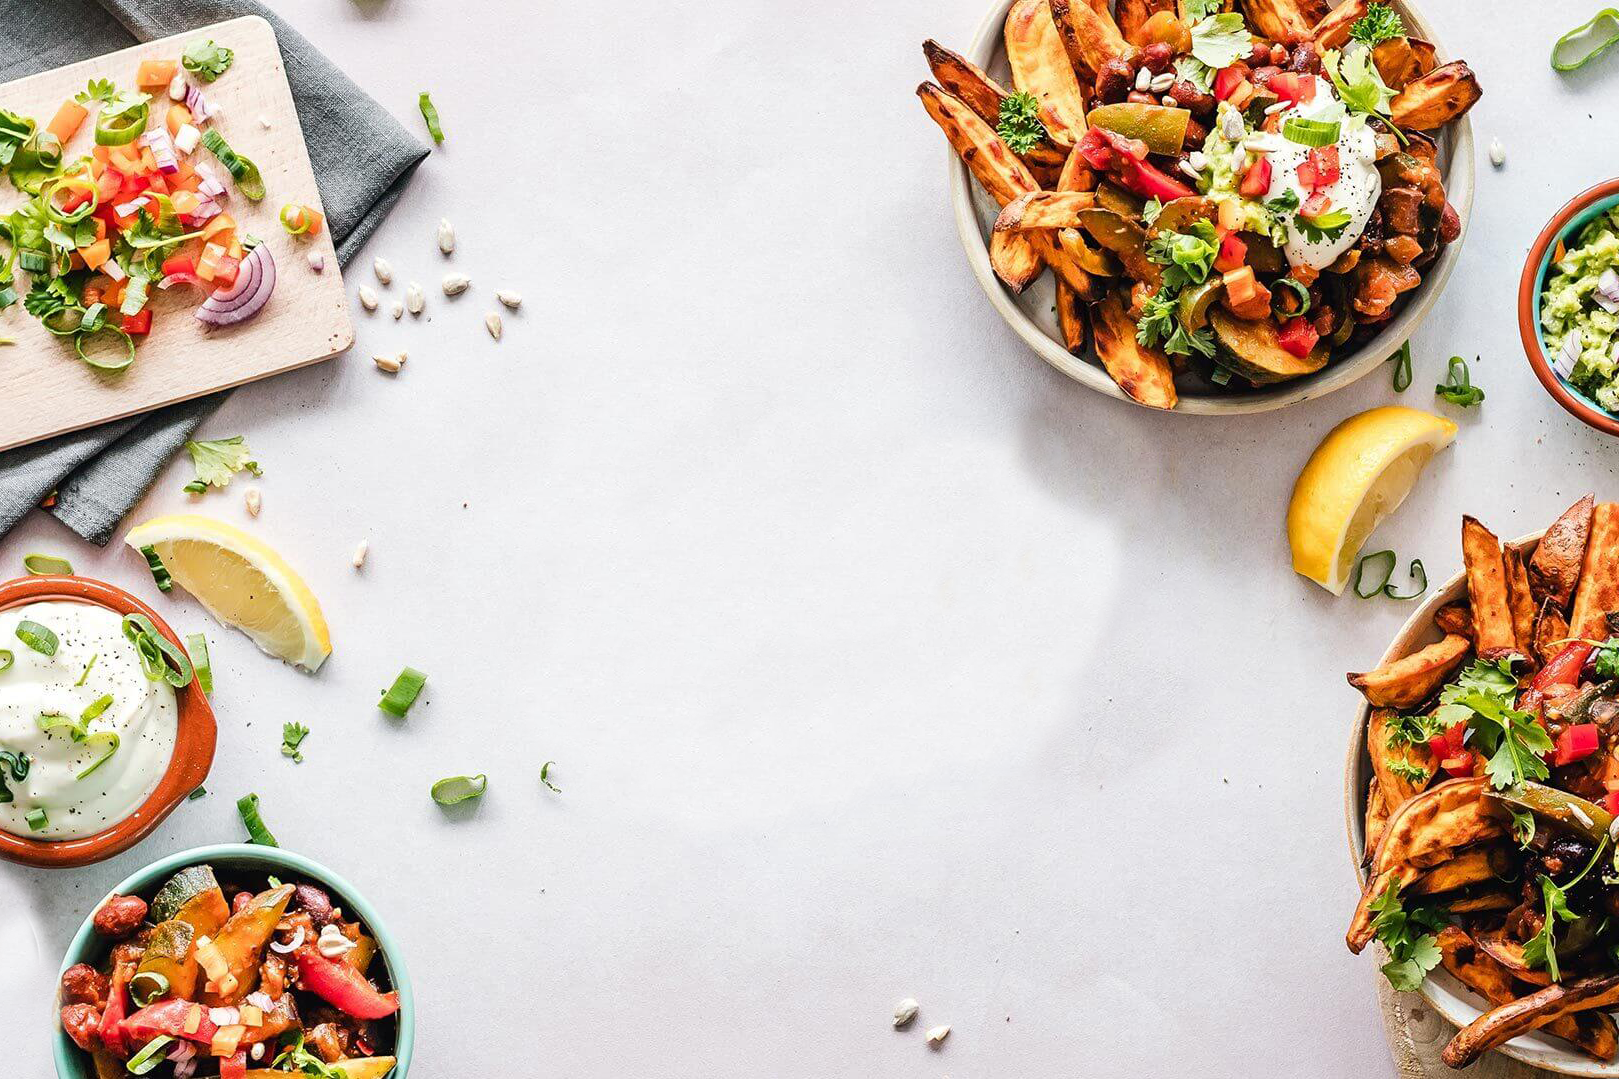
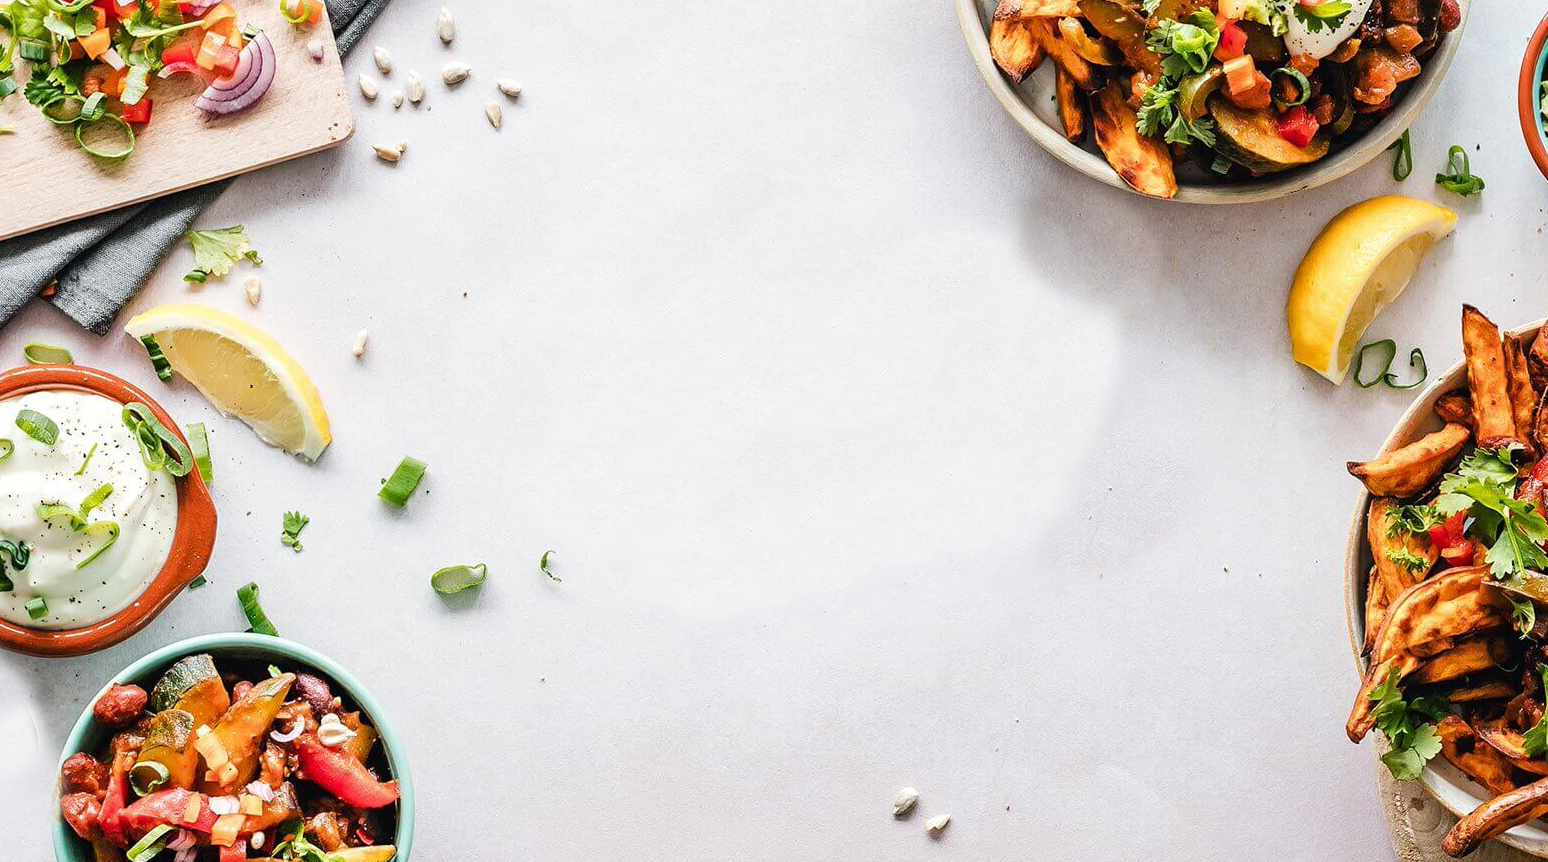
homepage done

diff --git a/client/src/pages/HomePage.js b/client/src/pages/HomePage.js
@@ -1,58 +1,19 @@
 import React from 'react';
-import {
-  Table,
-  Pagination,
-  Select
-} from 'antd'
 
+import logo from '../images/logo.png';
 import MenuBar from '../components/MenuBar';
-import Button from 'react-bootstrap/Button';
+import food_background from '../images/food_background.png';
 import { getAllMatches, getAllPlayers, getAllChopped } from '../fetcher'
-const { Column, ColumnGroup } = Table;
-const { Option } = Select;
 
-
-const playerColumns = [
-  {
-    title: 'Name',
-    dataIndex: 'Name',
-    key: 'Name',
-    sorter: (a, b) => a.Name.localeCompare(b.Name),
-    render: (text, row) => <a href={`/players?id=${row.PlayerId}`}>{text}</a>
-  },
-  {
-    title: 'Nationality',
-    dataIndex: 'Nationality',
-    key: 'Nationality',
-    sorter: (a, b) => a.Nationality.localeCompare(b.Nationality)
-  },
-  {
-    title: 'Rating',
-    dataIndex: 'Rating',
-    key: 'Rating',
-    sorter: (a, b) => a.Rating - b.Rating
-  },
-  // TASK 7: add a column for Potential, with the ability to (numerically) sort ,
-  {
-    title: 'Potential',
-    dataIndex: 'Potential',
-    key: 'Potential',
-    sorter: (a, b) => a.Potential - b.Potential
-  },
-  // TASK 8: add a column for Club, with the ability to (alphabetically) sort 
-  {
-    title: 'Club',
-    dataIndex: 'Club',
-    key: 'Club',
-    sorter: (a, b) => a.Club.localeCompare(b.Club)
-  },
-  // TASK 9: add a column for Value - no sorting required
-  {
-    title: 'Value',
-    dataIndex: 'Value',
-    key: 'Value'
-  },
-];
+import {
+  Container,
+  Row,
+  Col,
+  Stack,
+  Button,
+  Image,
+  Card,
+} from 'react-bootstrap';
 
 class HomePage extends React.Component {
 
@@ -66,85 +27,69 @@ class HomePage extends React.Component {
       playersResults: [],
       pagination: null  
     }
-
-    this.leagueOnChange = this.leagueOnChange.bind(this)
-    this.goToMatch = this.goToMatch.bind(this)
-  }
-
-
-  goToMatch(matchId) {
-    window.location = `/matches?id=${matchId}`
-  }
-
-  leagueOnChange(value) {
-    // TASK 2: this value should be used as a parameter to call getAllMatches in fetcher.js with the parameters page and pageSize set to null
-    // then, matchesResults in state should be set to the results returned - see a similar function call in componentDidMount()
-    getAllMatches(null, null, value).then(res => {
-      this.setState({ matchesResults: res.results })
-    })
-    
   }
 
   componentDidMount() {
     getAllChopped().then(res => {
       console.log(res.results)
     })
-    getAllMatches(null, null, 'D1').then(res => {
-      this.setState({ matchesResults: res.results })
-    })
-
-    getAllPlayers().then(res => {
-      console.log(res.results)
-      // TASK 1: set the correct state attribute to res.results
-      this.setState({ playersResults: res.results })
-    })
-
- 
   }
 
-
   render() {
+
+    var textStyle = {
+      position: 'absolute', 
+      top: '50%', 
+      left: '50%'
+    };
 
     return (
       <div>
         <MenuBar />
-        <div style={{ width: '70vw', margin: '0 auto', marginTop: '5vh' }}>
-          <h3>Players</h3>
-          <Table dataSource={this.state.playersResults} columns={playerColumns} pagination={{ pageSizeOptions:[5, 10], defaultPageSize: 5, showQuickJumper:true }}/>
+        <div style={{ 
+          backgroundImage: `url(${food_background})`,
+          backgroundRepeat:"no-repeat",
+          backgroundSize:"cover", 
+          height:900,width:1600 }}>
         </div>
-        <div style={{ width: '70vw', margin: '0 auto', marginTop: '2vh' }}>
-          <h3>Matches</h3>
-          <Select defaultValue="D1" style={{ width: 120 }} onChange={this.leagueOnChange}>
-            <Option value="D1">Bundesliga</Option>
-             {/* TASK 3: Take a look at Dataset Information.md from MS1 and add other options to the selector here  */}
-             <Option value="SP1">SP1</Option>
-          </Select>
-
-          {<Button onClick={() => toggleShow(true)}>Show Toast</Button>}
-          
-          <Table onRow={(record, rowIndex) => {
-    return {
-      onClick: event => {this.goToMatch(record.MatchId)}, // clicking a row takes the user to a detailed view of the match in the /matches page using the MatchId parameter  
-    };
-  }} dataSource={this.state.matchesResults} pagination={{ pageSizeOptions:[5, 10], defaultPageSize: 5, showQuickJumper:true }}>
-            <ColumnGroup title="Teams">
-              {/* TASK 4: correct the title for the 'Home' column and add a similar column for 'Away' team in this ColumnGroup */}
-              <Column title="Home" dataIndex="Home" key="Home" sorter= {(a, b) => a.Home.localeCompare(b.Home)}/>
-              <Column title="Away" dataIndex="Away" key="Away" sorter= {(a, b) => a.Away.localeCompare(b.Away)}/>
-            </ColumnGroup>
-            <ColumnGroup title="Goals">
-              {/* TASK 5: add columns for home and away goals in this ColumnGroup, with the ability to sort values in these columns numerically */}
-              <Column title="Home Goals" dataIndex="HomeGoals" key="HomeGoals"  sorter= {(a, b) => a.HomeGoals - b.HomeGoals}/>
-              <Column title="Away Goals" dataIndex="AwayGoals" key="AwayGoals" sorter= {(a, b) => a.AwayGoals - b.AwayGoals}/>
-            </ColumnGroup>
-             {/* TASK 6: create two columns (independent - not in a column group) for the date and time. Do not add a sorting functionality */}
-             <Column title="Date" dataIndex="Date" key="Date"/>
-              <Column title="Time" dataIndex="Time" key="Time"/>
-          </Table>
-
-        </div>
-
-
+       
+        {/* <h1 style={textStyle}>Text over image</h1> */}
+        <Container style={{ position:'absolute', top: '30%', left: '10%'}}>
+          <div class="d-flex justify-content-center">
+          <img
+                  alt=""
+                  src={logo}
+                  width="100"
+                  height="100"
+              />
+          </div>
+          <h3 class="d-flex justify-content-center">Creative Cuisine </h3>
+          <Card style={{marginTop: '30px'}}>
+            <Card.Text style={{margin: '30px'}}>
+              <p class="text-center">
+                Creative Cuisine is a tool to inspire creativity in your cooking! 
+              </p>
+              <p class="text-left">
+                <ul>
+                Our features include: 
+                  <li style={{marginLeft: '30px'}}>
+                    an extensive database of recipes for you to try new dishes with a customizable search tool to make it easy to find the recipes that are right for you
+                  </li>
+                  <li style={{marginLeft: '30px'}}>
+                    access to the top recipe contributers so that you can find your favorite users and find which recipes they've written and reviewed
+                  </li>
+                  <li style={{marginLeft: '30px'}}>
+                    a custom meal maker tool that helps you plan what meals to make based on your nutrition and ingredient preferences
+                  </li>
+                  <li style={{marginLeft: '30px'}}>
+                    a search function to find your favorite chopped episodes and how they can inspire you to make your own unique creations
+                  </li>
+                </ul>
+              </p>
+            </Card.Text>
+          </Card>
+        </Container>
+        
       </div>
     )
   }

diff --git a/client/src/components/MenuBar.js b/client/src/components/MenuBar.js
@@ -17,16 +17,16 @@ class MenuBar extends React.Component {
         return(
           <Navbar>
             <Container>
-              <Navbar.Brand href="#home">
+              <Navbar.Brand href="/">
               <img
-                        alt=""
-                        src={logo}
-                        width="30"
-                        height="30"
-                        className="d-inline-block align-top"
-                      />{' '}
-                    Creative Cuisine
-                    </Navbar.Brand>
+                  alt=""
+                  src={logo}
+                  width="30"
+                  height="30"
+                  className="d-inline-block align-top"
+              />{' '}
+              Creative Cuisine
+              </Navbar.Brand>
               <Navbar.Toggle aria-controls="basic-navbar-nav" />
               <Navbar.Collapse id="basic-navbar-nav">
                 <Nav className="me-auto">
